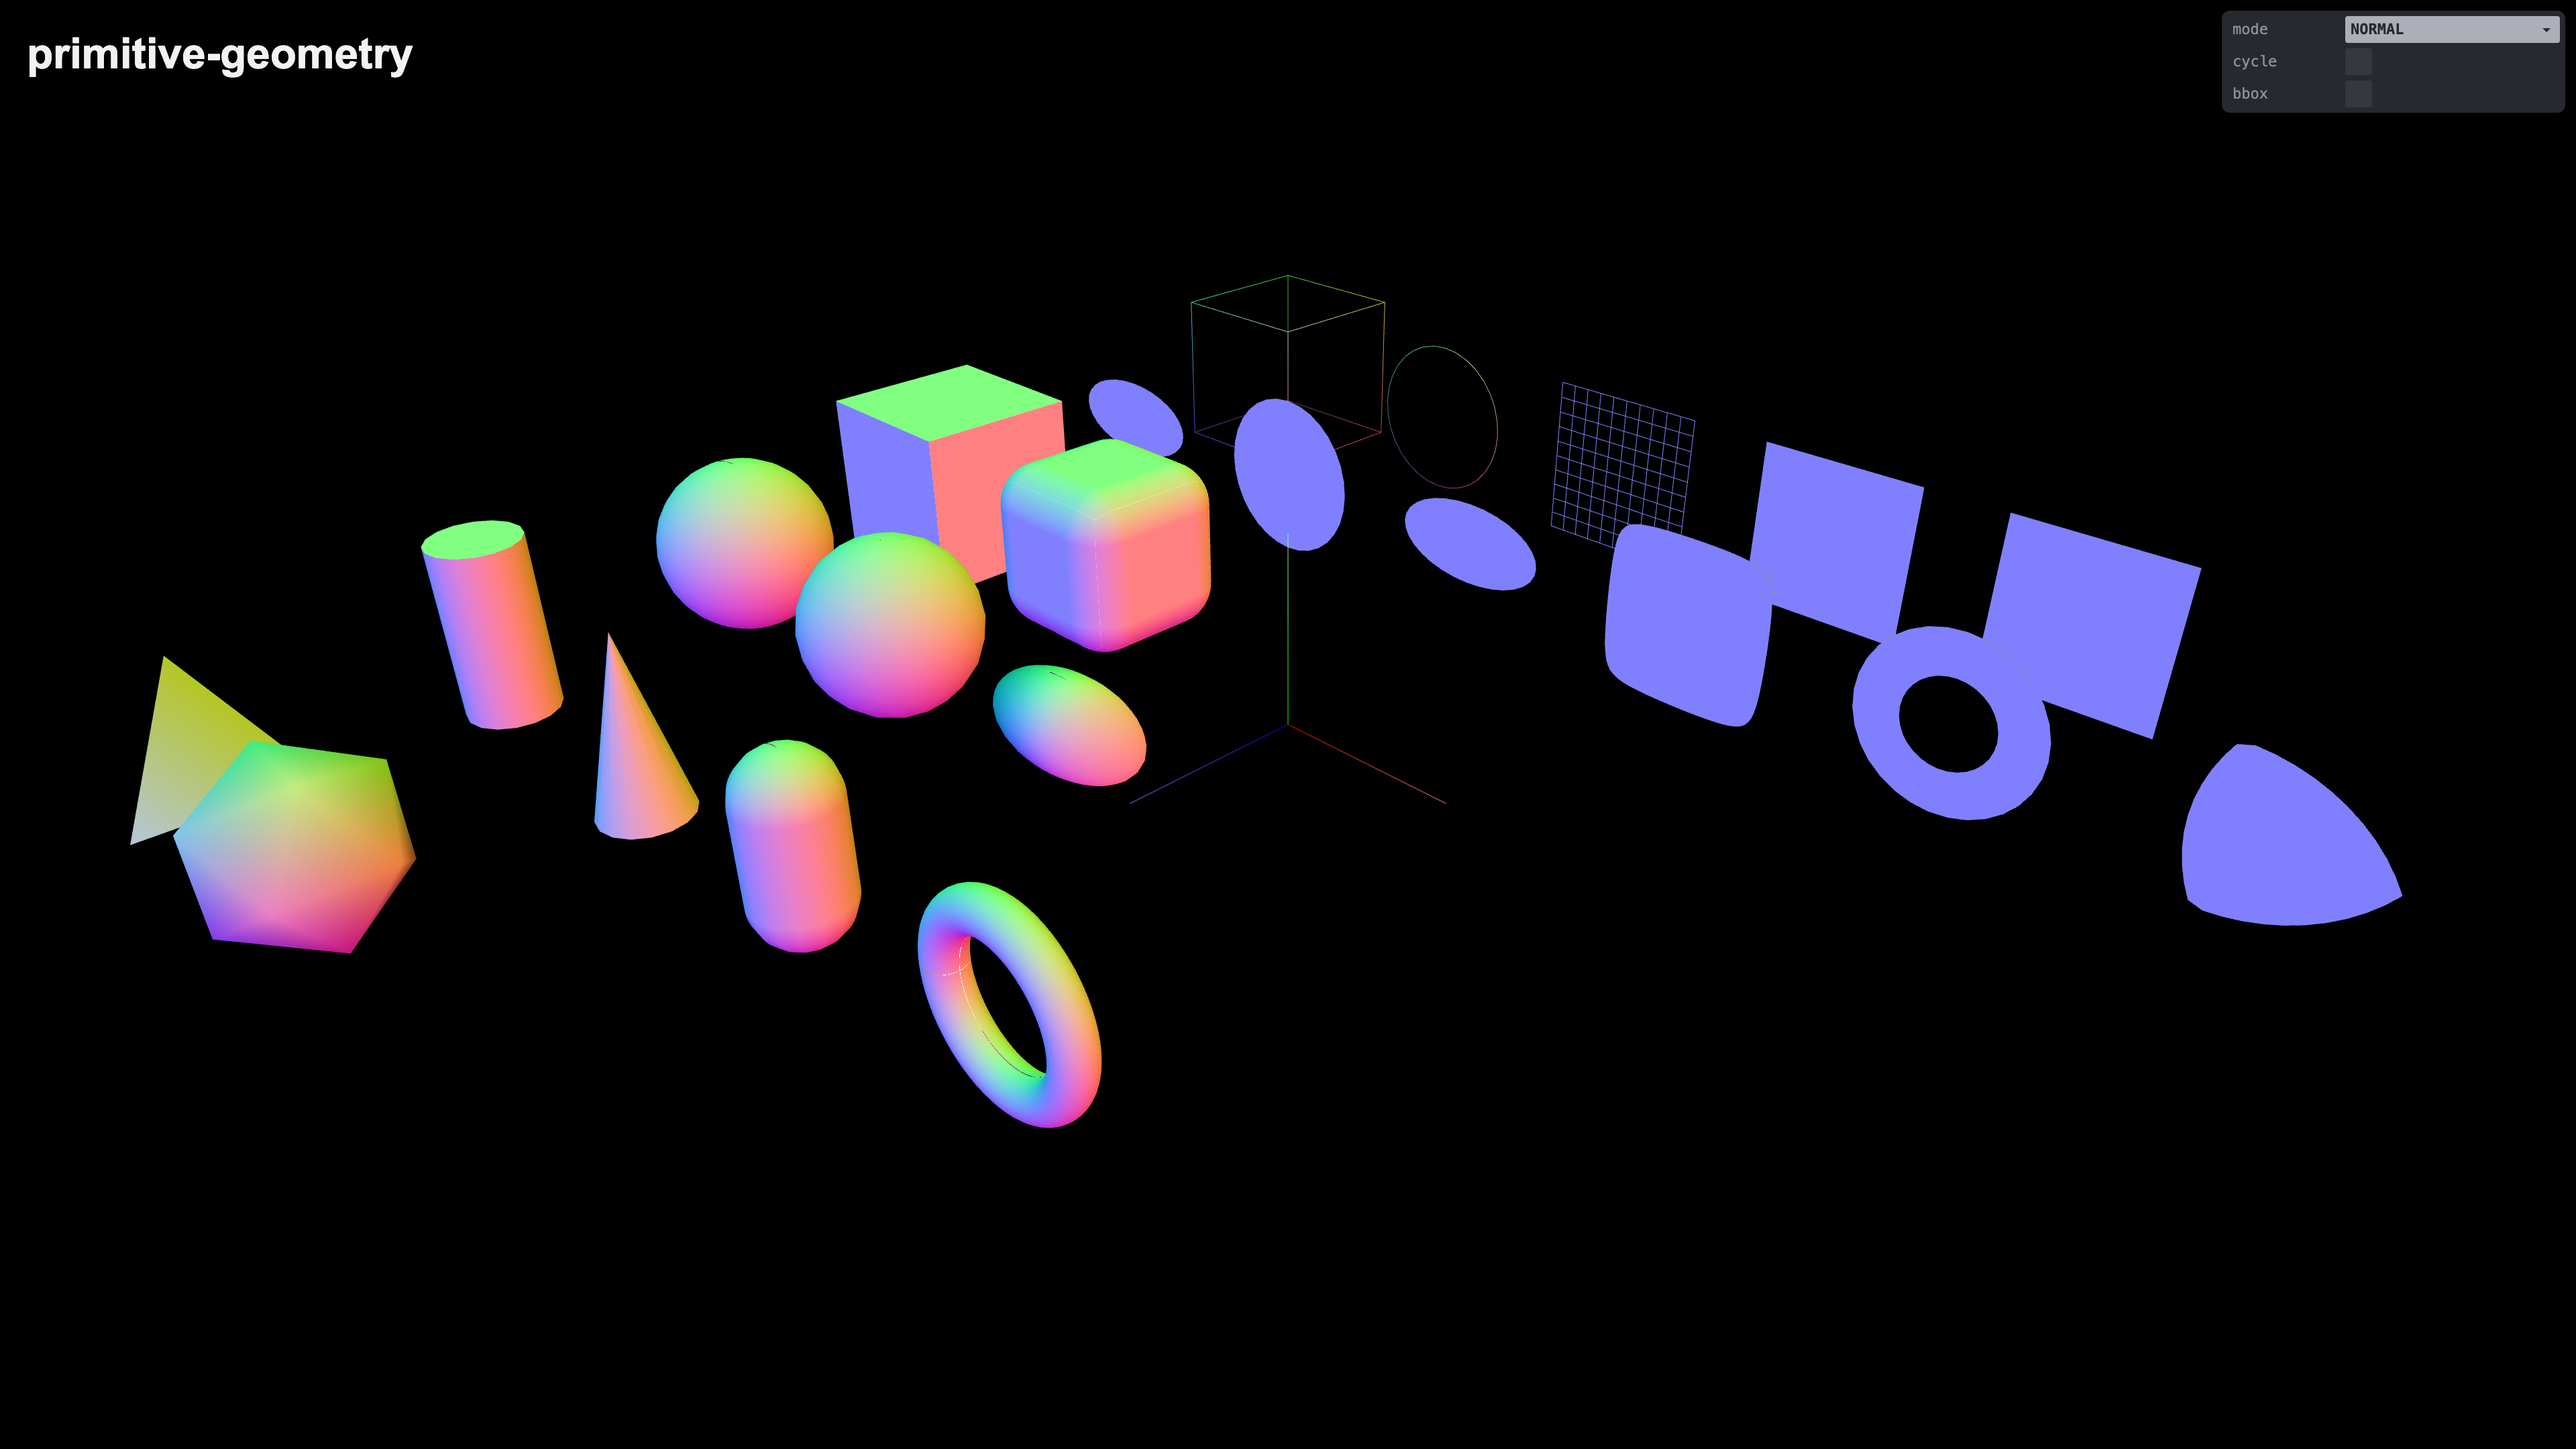
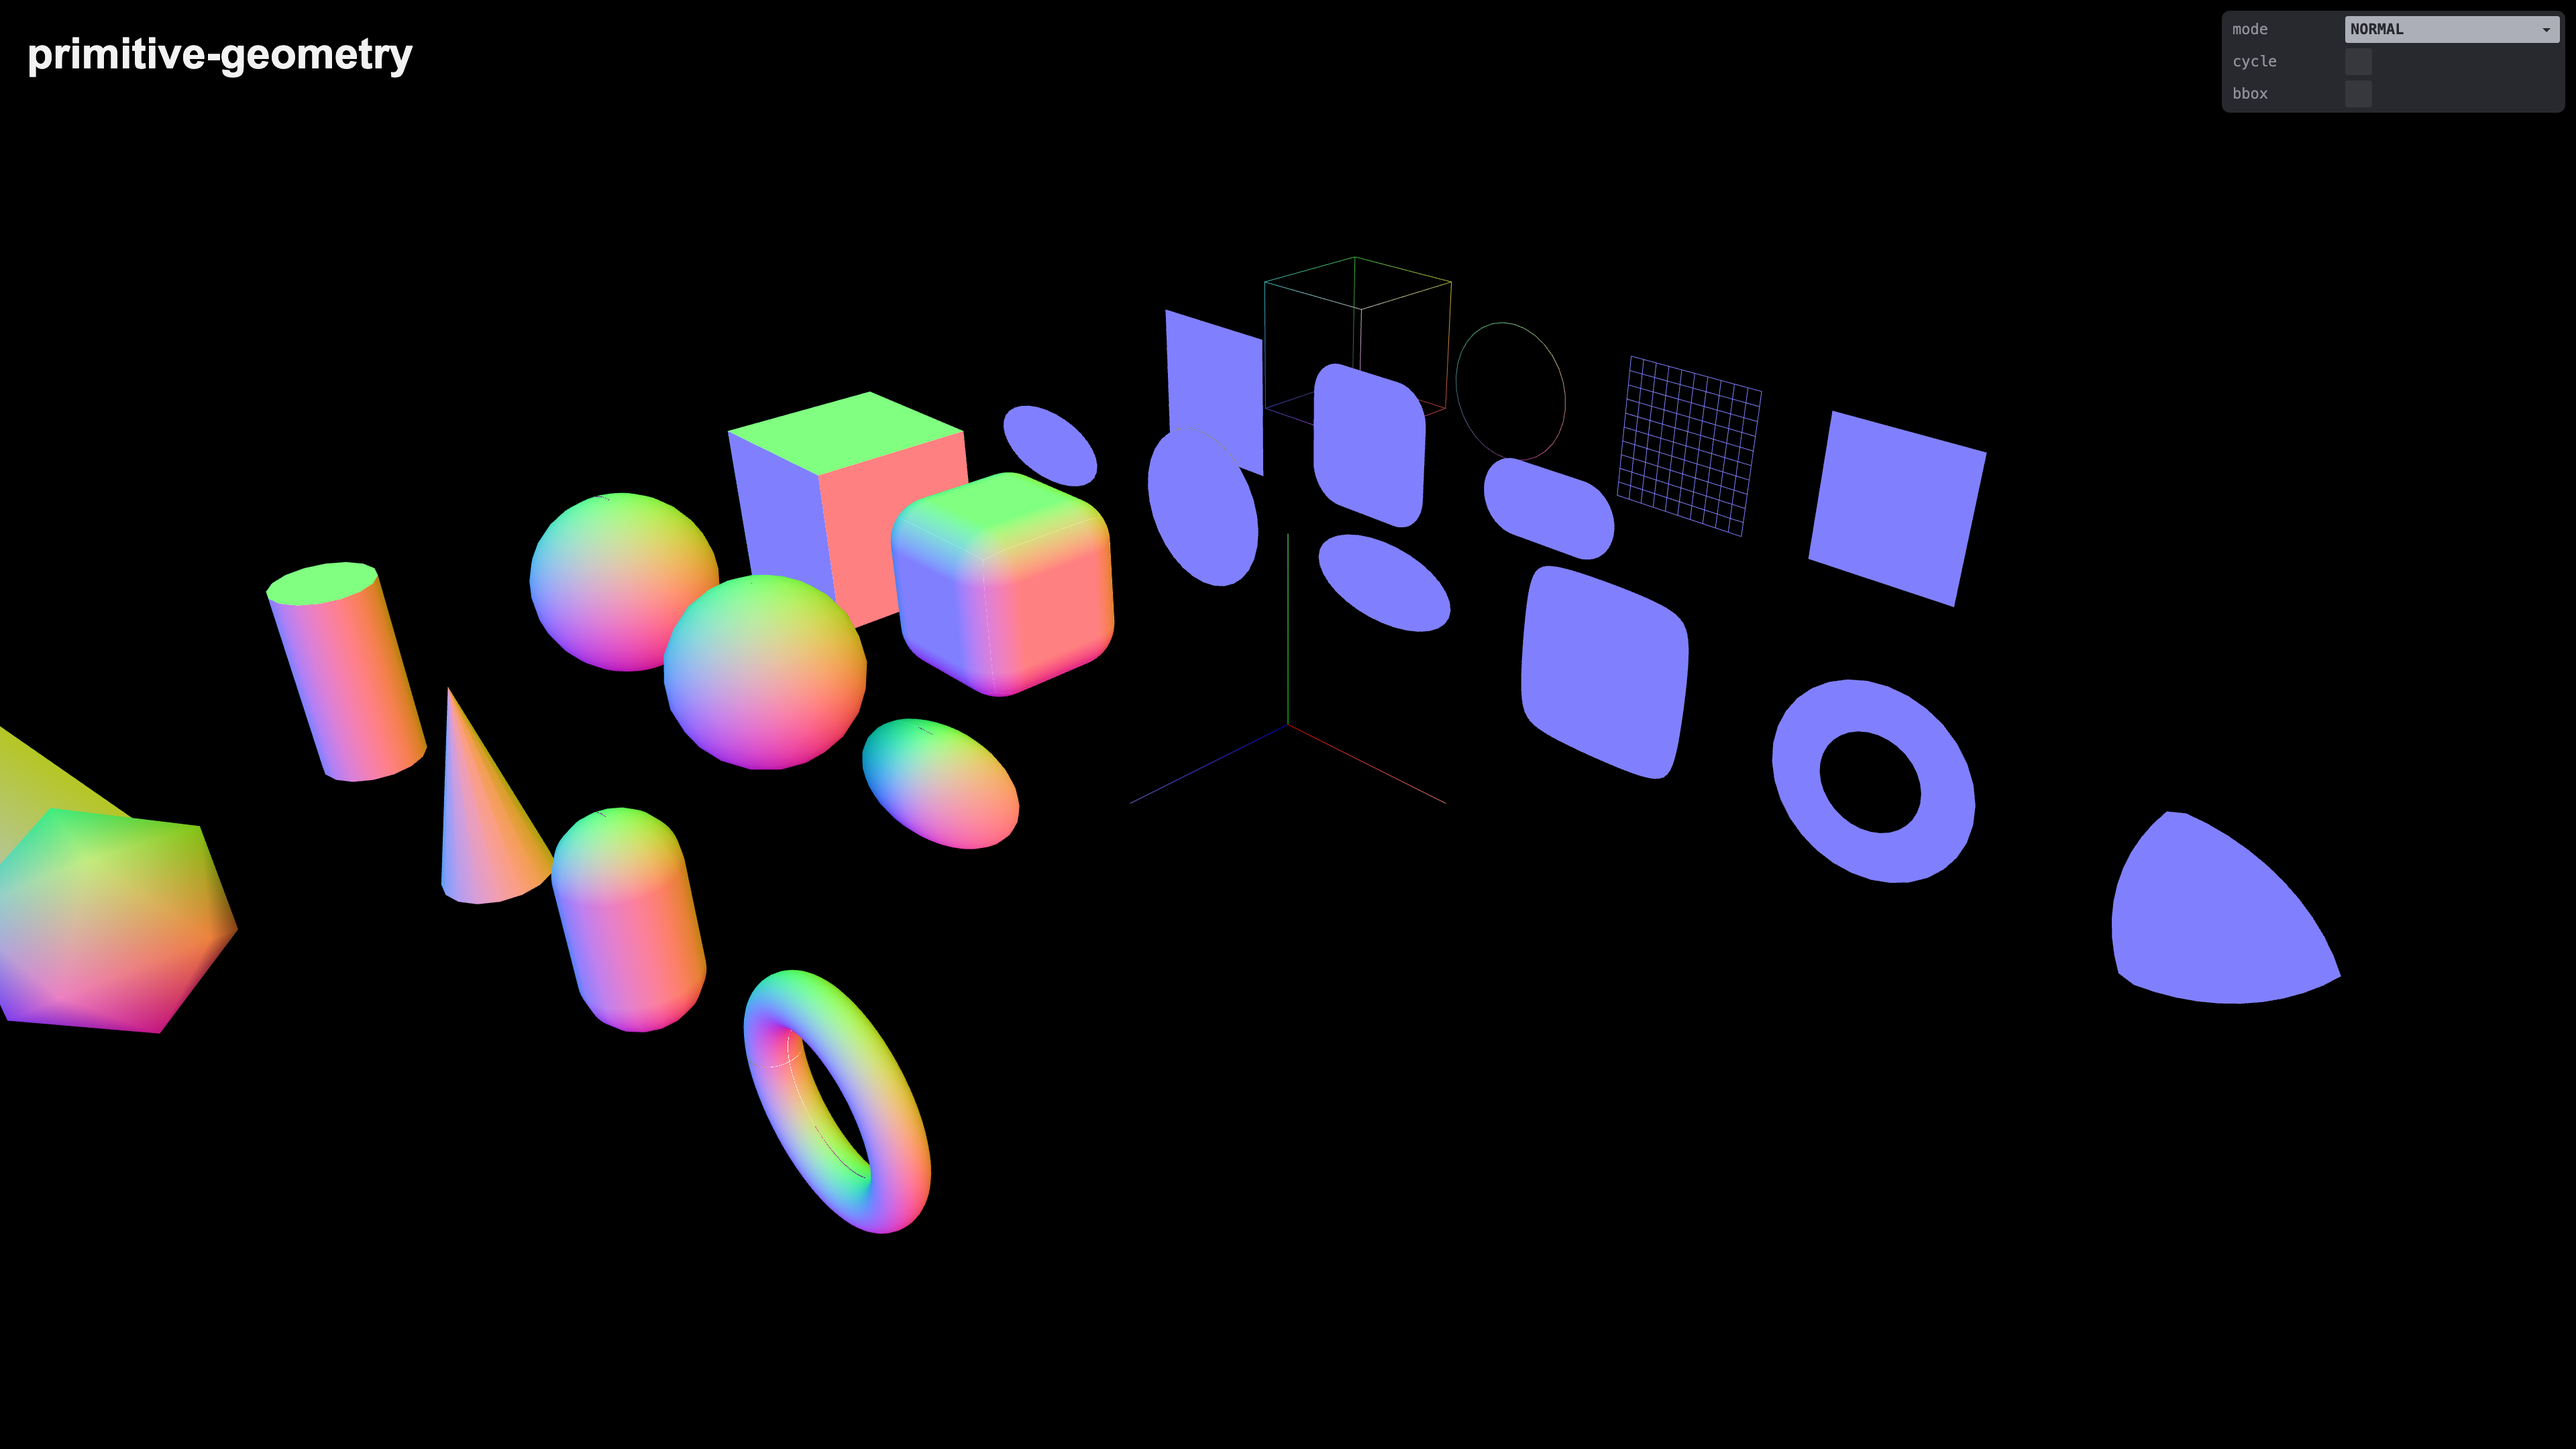
test: add unit bbox

Changed region(s): [[0.0, 0.2171, 0.9375, 0.8685]]

diff --git a/examples/render.js b/examples/render.js
@@ -155,8 +155,13 @@ const drawLinesCmd = {
   pipeline: ctx.pipeline({
     depthTest: true,
     primitive: ctx.Primitive.Lines,
+    blend: true,
+    blendSrcRGBFactor: ctx.BlendFactor.SrcAlpha,
+    blendSrcAlphaFactor: ctx.BlendFactor.One,
+    blendDstRGBFactor: ctx.BlendFactor.OneMinusSrcAlpha,
+    blendDstAlphaFactor: ctx.BlendFactor.One,
     vert: /* glsl */ `
-  precision mediump float;
+precision mediump float;
 
 attribute vec3 aPosition;
 attribute vec3 aColor;
@@ -179,15 +184,15 @@ void main() {
     frag: /* glsl */ `
 precision mediump float;
 
-uniform vec4 uColor;
+uniform float uOpacity;
 
 varying vec3 vColor;
 
 void main () {
-  gl_FragColor = vec4(vColor, 1.0);
+  gl_FragColor = vec4(vColor, uOpacity);
 }`,
   }),
-  uniforms: { uColor: [0.8, 0.8, 0.8, 1] },
+  uniforms: { uOpacity: 1 },
 };
 
 const bboxCells = ctx.indexBuffer(
@@ -198,6 +203,8 @@ const bboxCells = ctx.indexBuffer(
     0, 4, 1, 5, 2, 6, 3, 7
   )
 );
+const unitBox = Primitives.box();
+unitBox.edges = computeEdges(unitBox.positions, unitBox.cells, 4);
 
 const drawAxesCmd = {
   ...drawLinesCmd,
@@ -226,7 +233,7 @@ const drawAxesCmd = {
     ),
   },
   indices: ctx.indexBuffer(Uint8Array.of(0, 1, 2, 3, 4, 5)),
-  uniforms: { uColor: [0.8, 0.8, 0.8, 1], uModelMatrix: mat4.create() },
+  uniforms: { uModelMatrix: mat4.create() },
 };
 
 // Events
@@ -296,6 +303,26 @@ ctx.frame(() => {
     });
 
     if (CONFIG.bbox) {
+      unitBox.positionsBuffer ||= ctx.vertexBuffer(unitBox.positions);
+      unitBox.colorsBuffer ||= ctx.vertexBuffer(unitBox.positions.map(() => 1));
+      unitBox.indicesBuffer ||= ctx.indexBuffer(unitBox.edges);
+      ctx.submit(drawLinesCmd, {
+        attributes: {
+          aPosition: unitBox.positionsBuffer,
+          aColor: unitBox.colorsBuffer,
+        },
+        indices: unitBox.indicesBuffer,
+        uniforms: {
+          uOpacity: 0.2,
+          uMode: modeOptions.findIndex((o) => o === CONFIG.mode),
+          uProjectionMatrix: camera.projectionMatrix,
+          uViewMatrix: camera.viewMatrix,
+          uInverseViewMatrix: camera.inverseViewMatrix,
+          uNormalMatrix: mesh.normalMatrix,
+          uModelMatrix: mesh.modelMatrix,
+        },
+      });
+
       mesh.bboxPositions ||= ctx.vertexBuffer(mesh.bbox);
       mesh.bboxColors ||= ctx.vertexBuffer(mesh.bbox.map((p) => p * 0.5 + 0.5));
 
@@ -306,7 +333,6 @@ ctx.frame(() => {
         },
         indices: bboxCells,
         uniforms: {
-          uColor: [1, 0, 0, 1],
           uMode: modeOptions.findIndex((o) => o === CONFIG.mode),
           uProjectionMatrix: camera.projectionMatrix,
           uViewMatrix: camera.viewMatrix,
@@ -433,4 +459,12 @@ const setGeometries = (geometries) => {
   meshes.forEach((mesh) => mesh && (mesh.translation[2] -= halfGridSize));
 };
 
-export { CONFIG, setGeometries, modeOptions, pane, controls, camera };
+export {
+  CONFIG,
+  setGeometries,
+  computeEdges,
+  modeOptions,
+  pane,
+  controls,
+  camera,
+};

diff --git a/examples/index.js b/examples/index.js
@@ -1,28 +1,8 @@
 import * as Primitives from "../index.js";
 
-import { modeOptions, setGeometries } from "./render.js";
+import { modeOptions, setGeometries, computeEdges } from "./render.js";
 
 const params = new URLSearchParams(window.location.search);
-
-// Utils
-function computeEdges(positions, cells, stride = 3) {
-  const edges = new (Primitives.utils.getCellsTypedArray(positions.length / 3))(
-    cells.length * 2
-  );
-
-  let cellIndex = 0;
-
-  for (let i = 0; i < cells.length; i += stride) {
-    for (let j = 0; j < stride; j++) {
-      const a = cells[i + j];
-      const b = cells[i + ((j + 1) % stride)];
-      edges[cellIndex] = Math.min(a, b);
-      edges[cellIndex + 1] = Math.max(a, b);
-      cellIndex += 2;
-    }
-  }
-  return edges;
-}
 
 // I don't like performances, just give me the biggest you've got
 // Primitives.utils.setTypedArrayType(Uint32Array);
